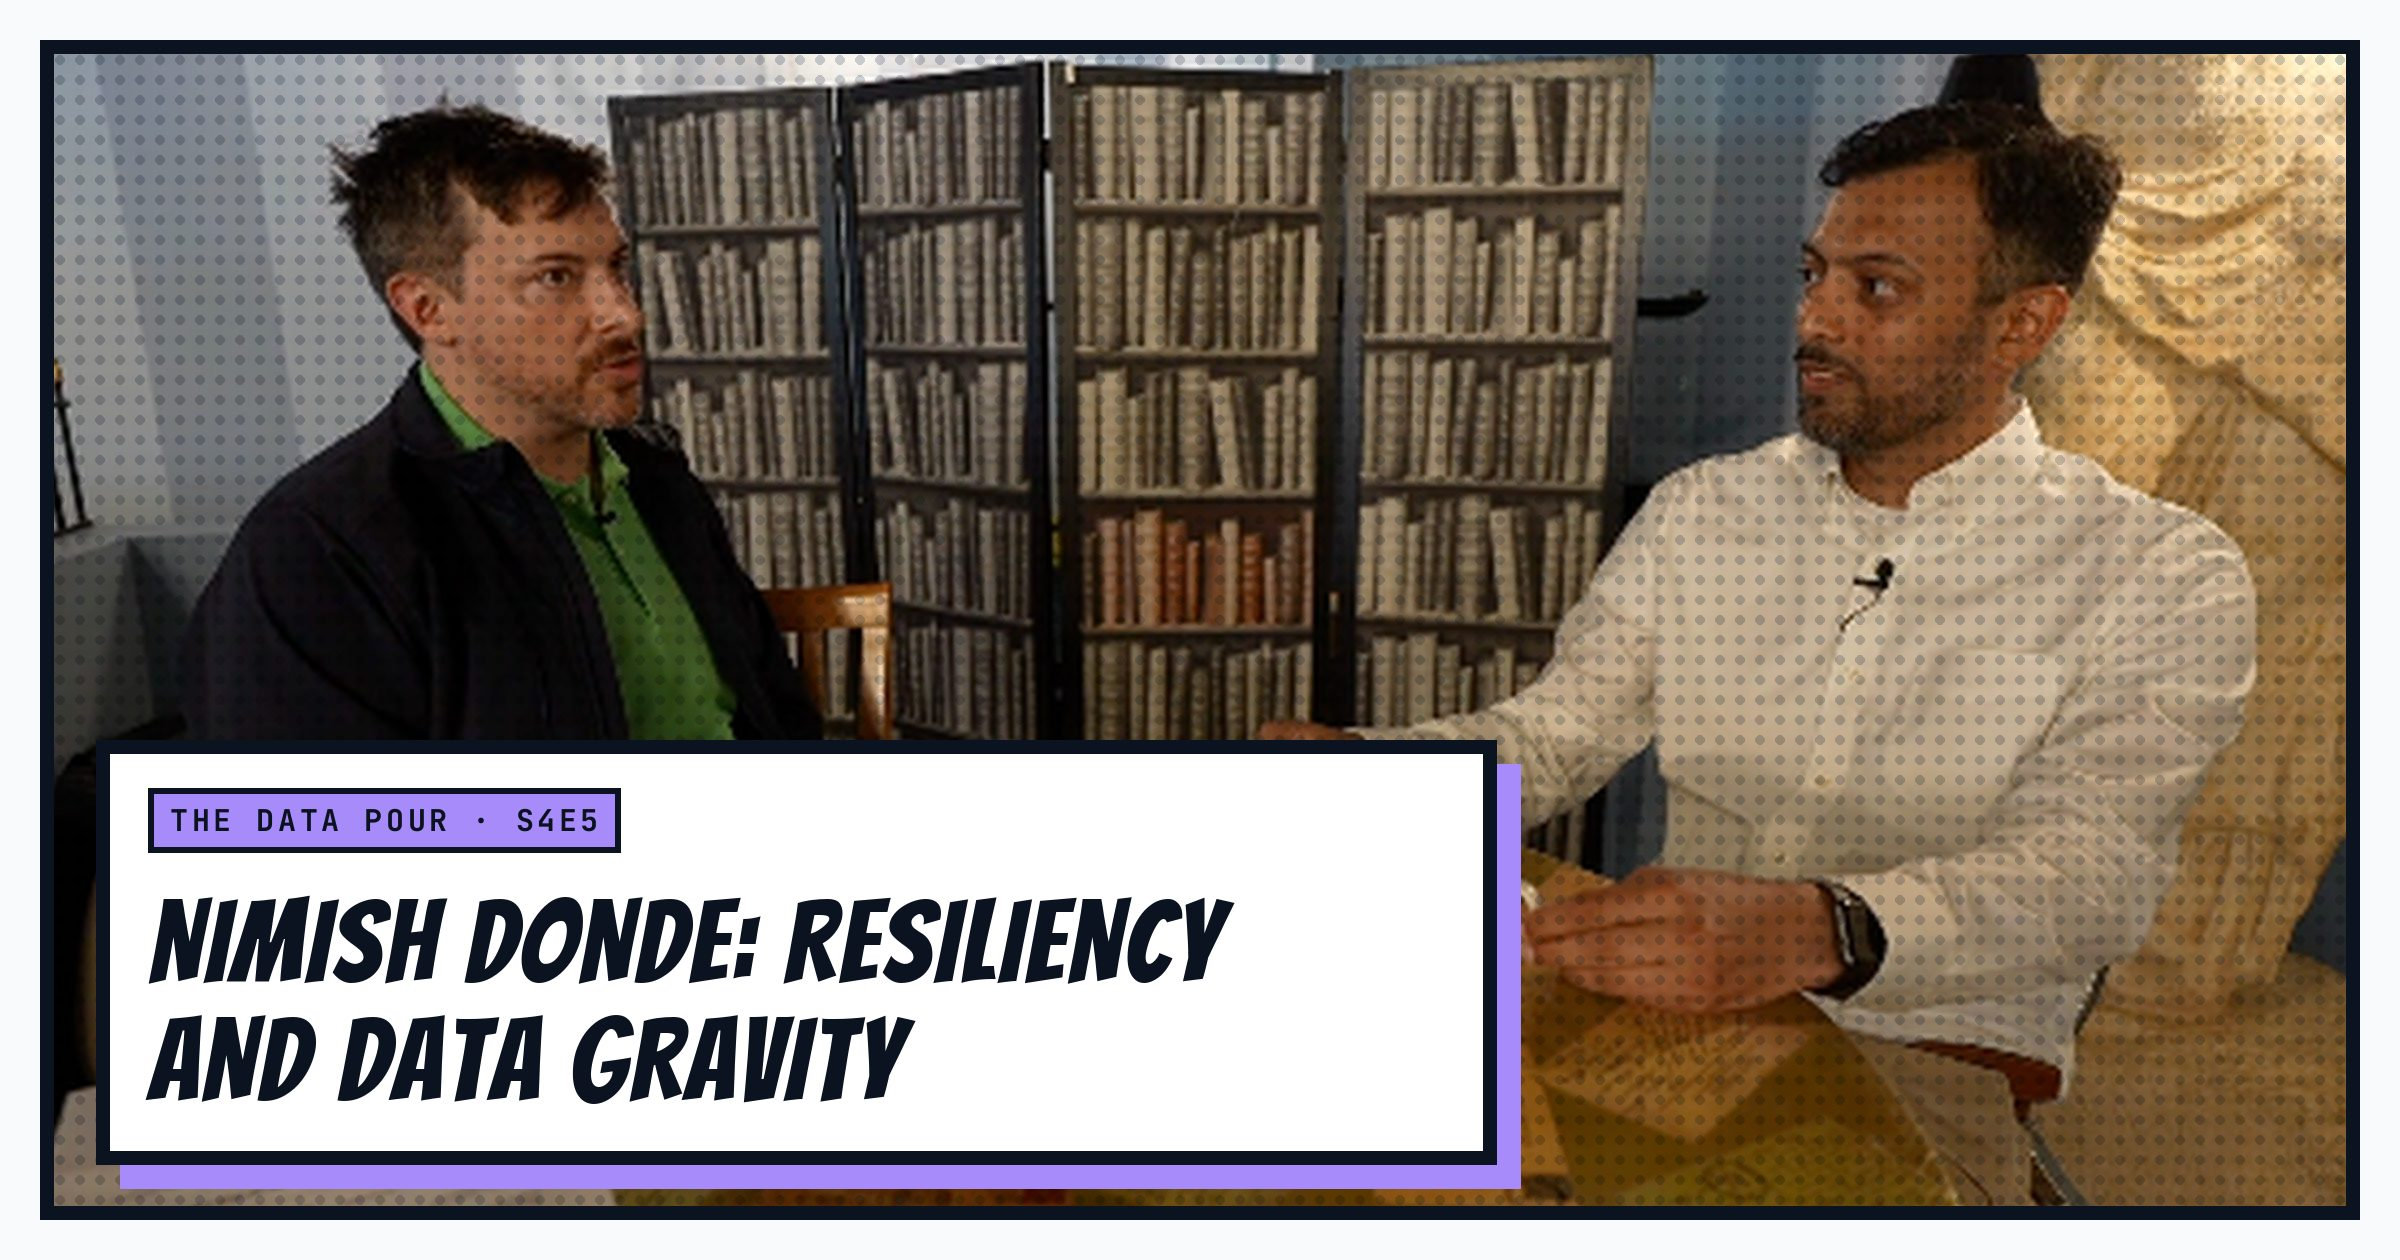
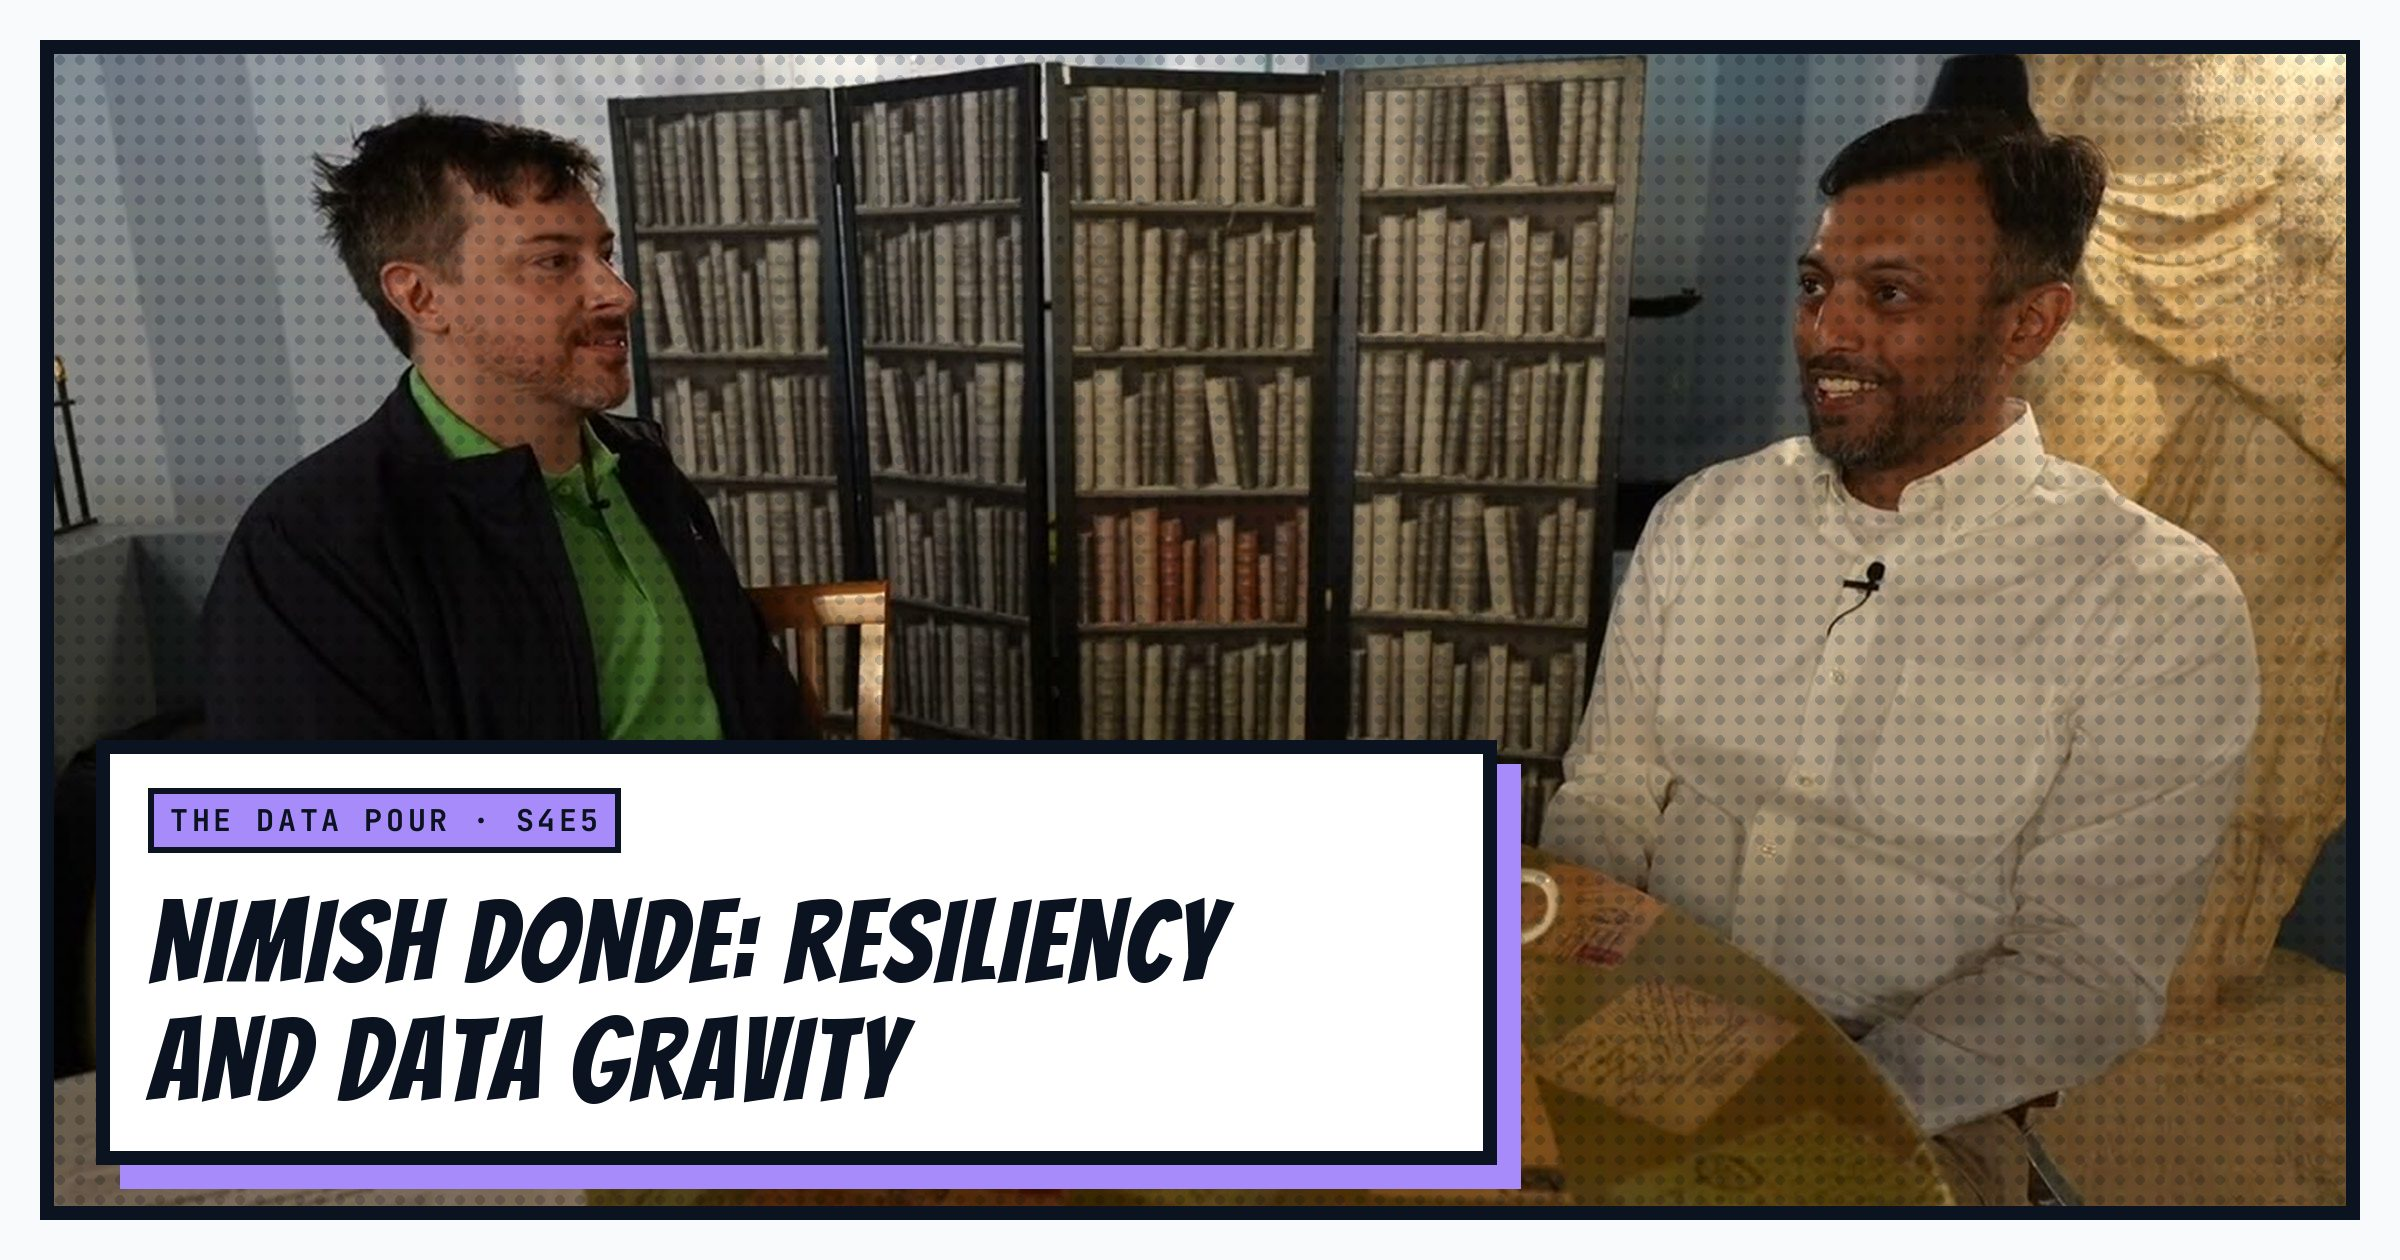
Sharper S4E5 cover from the 1280px episode thumbnail; unlink Ippon

diff --git a/content/about.md b/content/about.md
@@ -9,7 +9,7 @@ ShowReadingTime: false
   <img src="/images/luke.jpg" alt="Luke Little mid-kick on a steep cobblestone street, with mountains behind him" width="928" height="1400">
 </figure>
 
-I'm Luke Little. My career started in baking, moved into banking, and ended up in cloud consulting, and I wouldn't trade any of the detours. Today I'm Head of Intelligent Data and Cloud at [Ippon Technologies](https://ipponusa.com/), where I lead our cloud, data, and AI infrastructure work. I build cloud and AI systems for banking and capital markets, and I spend a lot of my spare time helping engineers, teams, and students level up. I'm also pursuing my MBA at Duke's Fuqua School of Business (Class of 2028), and I serve on the UNC Charlotte Alumni Board of Directors.
+I'm Luke Little. My career started in baking, moved into banking, and ended up in cloud consulting, and I wouldn't trade any of the detours. Today I'm Head of Intelligent Data and Cloud at Ippon Technologies, where I lead our cloud, data, and AI infrastructure work. I build cloud and AI systems for banking and capital markets, and I spend a lot of my spare time helping engineers, teams, and students level up. I'm also pursuing my MBA at Duke's Fuqua School of Business (Class of 2028), and I serve on the UNC Charlotte Alumni Board of Directors.
 
 This site is where I write about what I've learned, what I'm learning, and what I think matters.
 

diff --git a/content/posts/2026/01/the-data-pour-s4e5-nimish-donde/index.md b/content/posts/2026/01/the-data-pour-s4e5-nimish-donde/index.md
@@ -14,7 +14,7 @@ hero:
     color: "talk"
     label: "The Data Pour · S4E5"
     title: "Nimish Donde: Resiliency and Data Gravity"
-    photo: "the-data-pour-s4e5-nimish-donde.png"
+    photo: "the-data-pour-s4e5-nimish-donde.jpg"
 ---
 
 For this episode of Data Pour, I sat down with Nimish Donde—Head of Cloud Platform and Security Engineering at Truist—at Amélie's French bakery in Charlotte. It's a place that's been part of the city's fabric since 2008, growing from a single 24-hour location in NoDa (that I used to frequent during college) to four locations across Charlotte.
